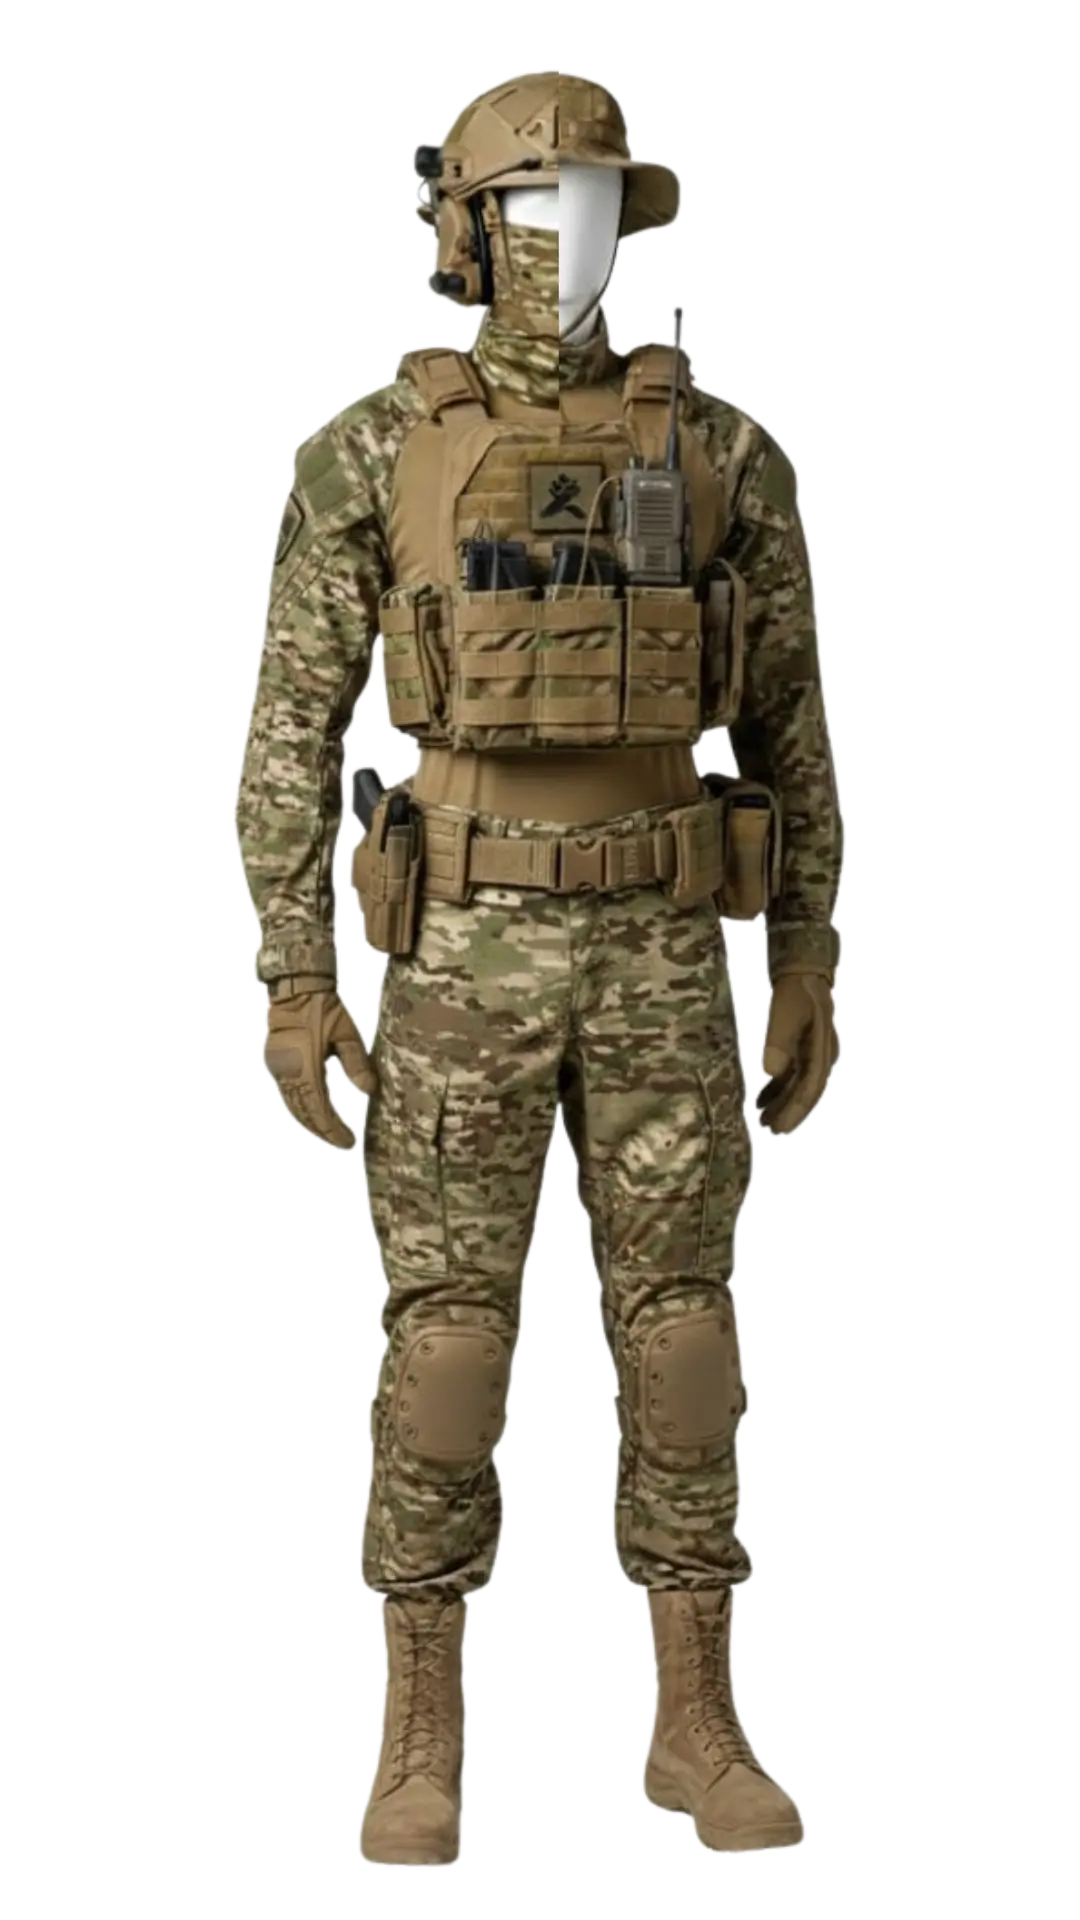
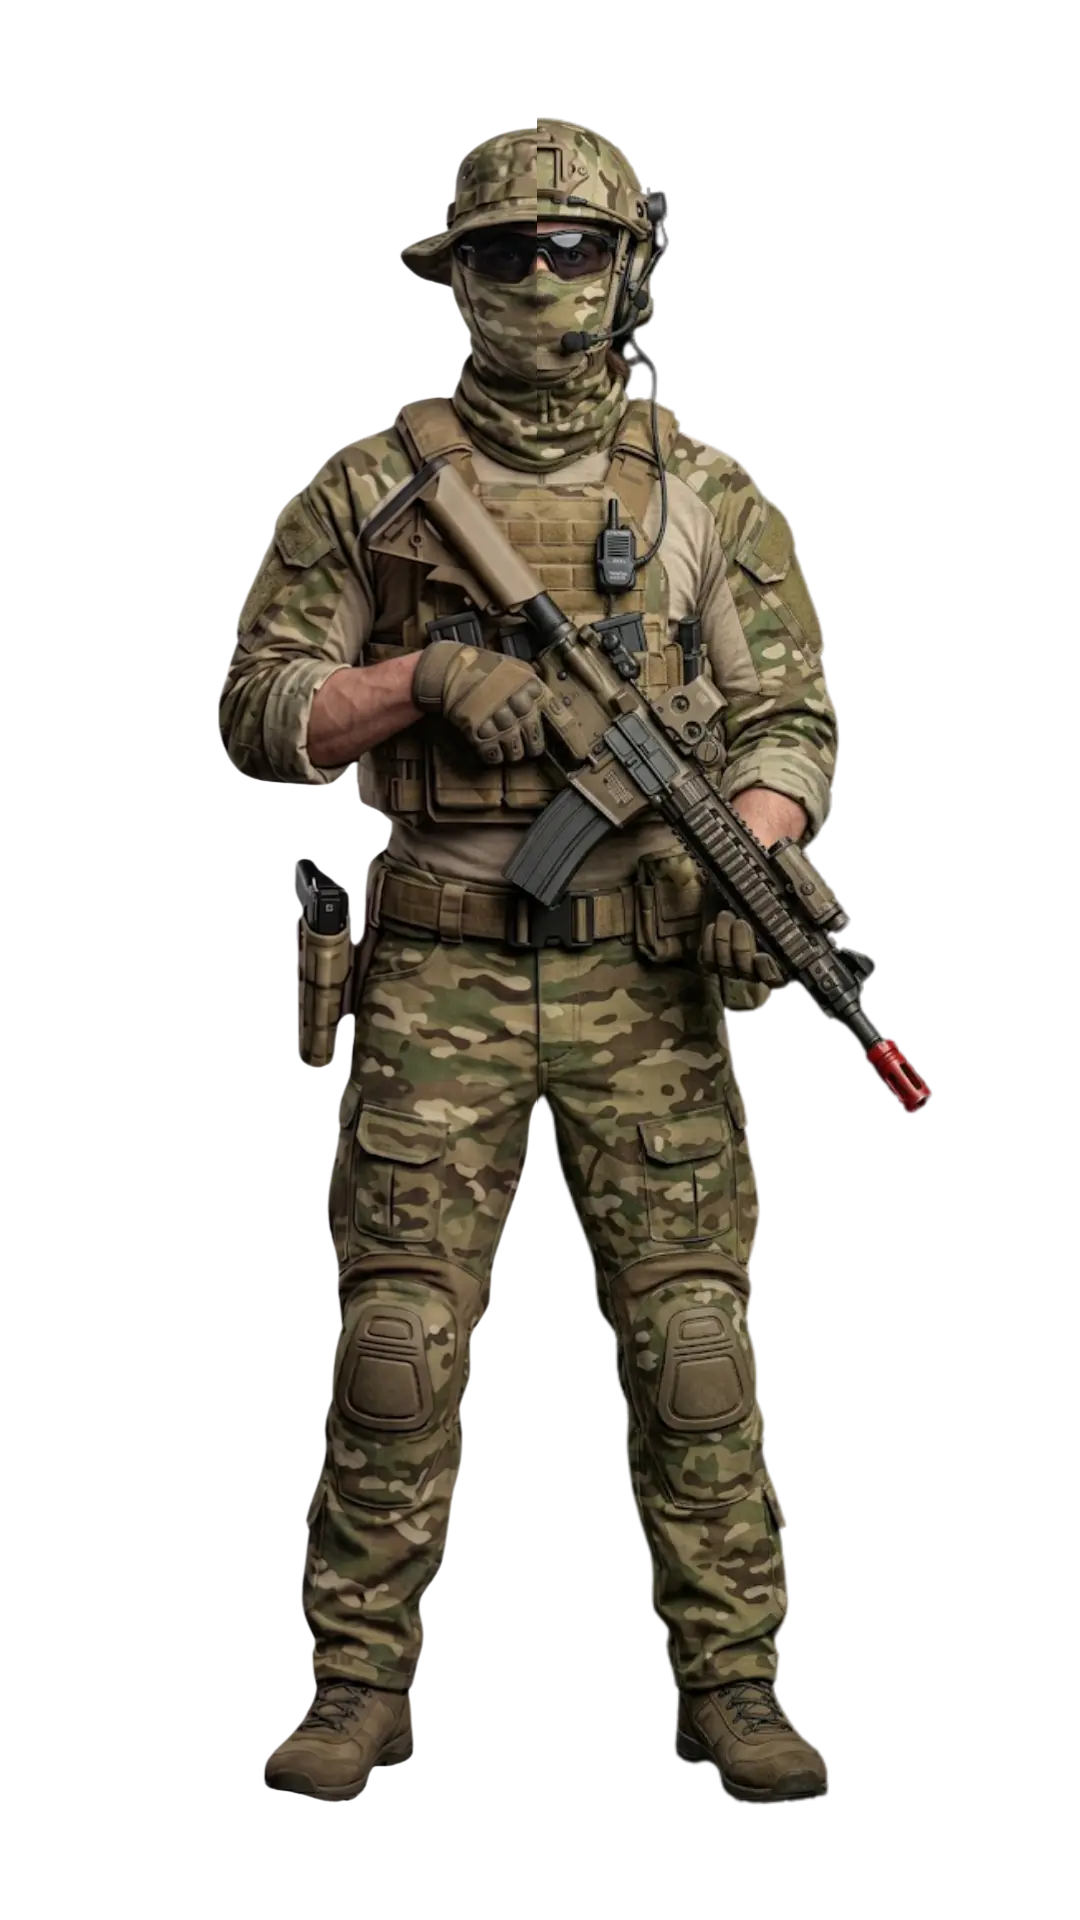
change images uniforms

Changed region(s): [[0.1833, 0.0312, 0.8556, 0.9688]]

diff --git a/src/components/operators/Loadout.vue b/src/components/operators/Loadout.vue
@@ -93,7 +93,7 @@
           </div>
           <Image :src="getTypeUniform()" alt="Operador"
             :imageClass="['absolute w-full left-50 opacity-40 transition-all transition-duration-500', { 'z-1 opacity-100': shownUniform }]"
-            imageStyle="transform: translate(-50%, -5%);" />
+            imageStyle="transform: translate(-50%, -8%);" />
           <div
             :class="['flex justify-content-center align-items-center relative transition-all transition-duration-500', { 'opacity-40': shownUniform }]">
             <div class="gap-3" style="display: grid; grid-template-columns: repeat(3, 1fr);">
